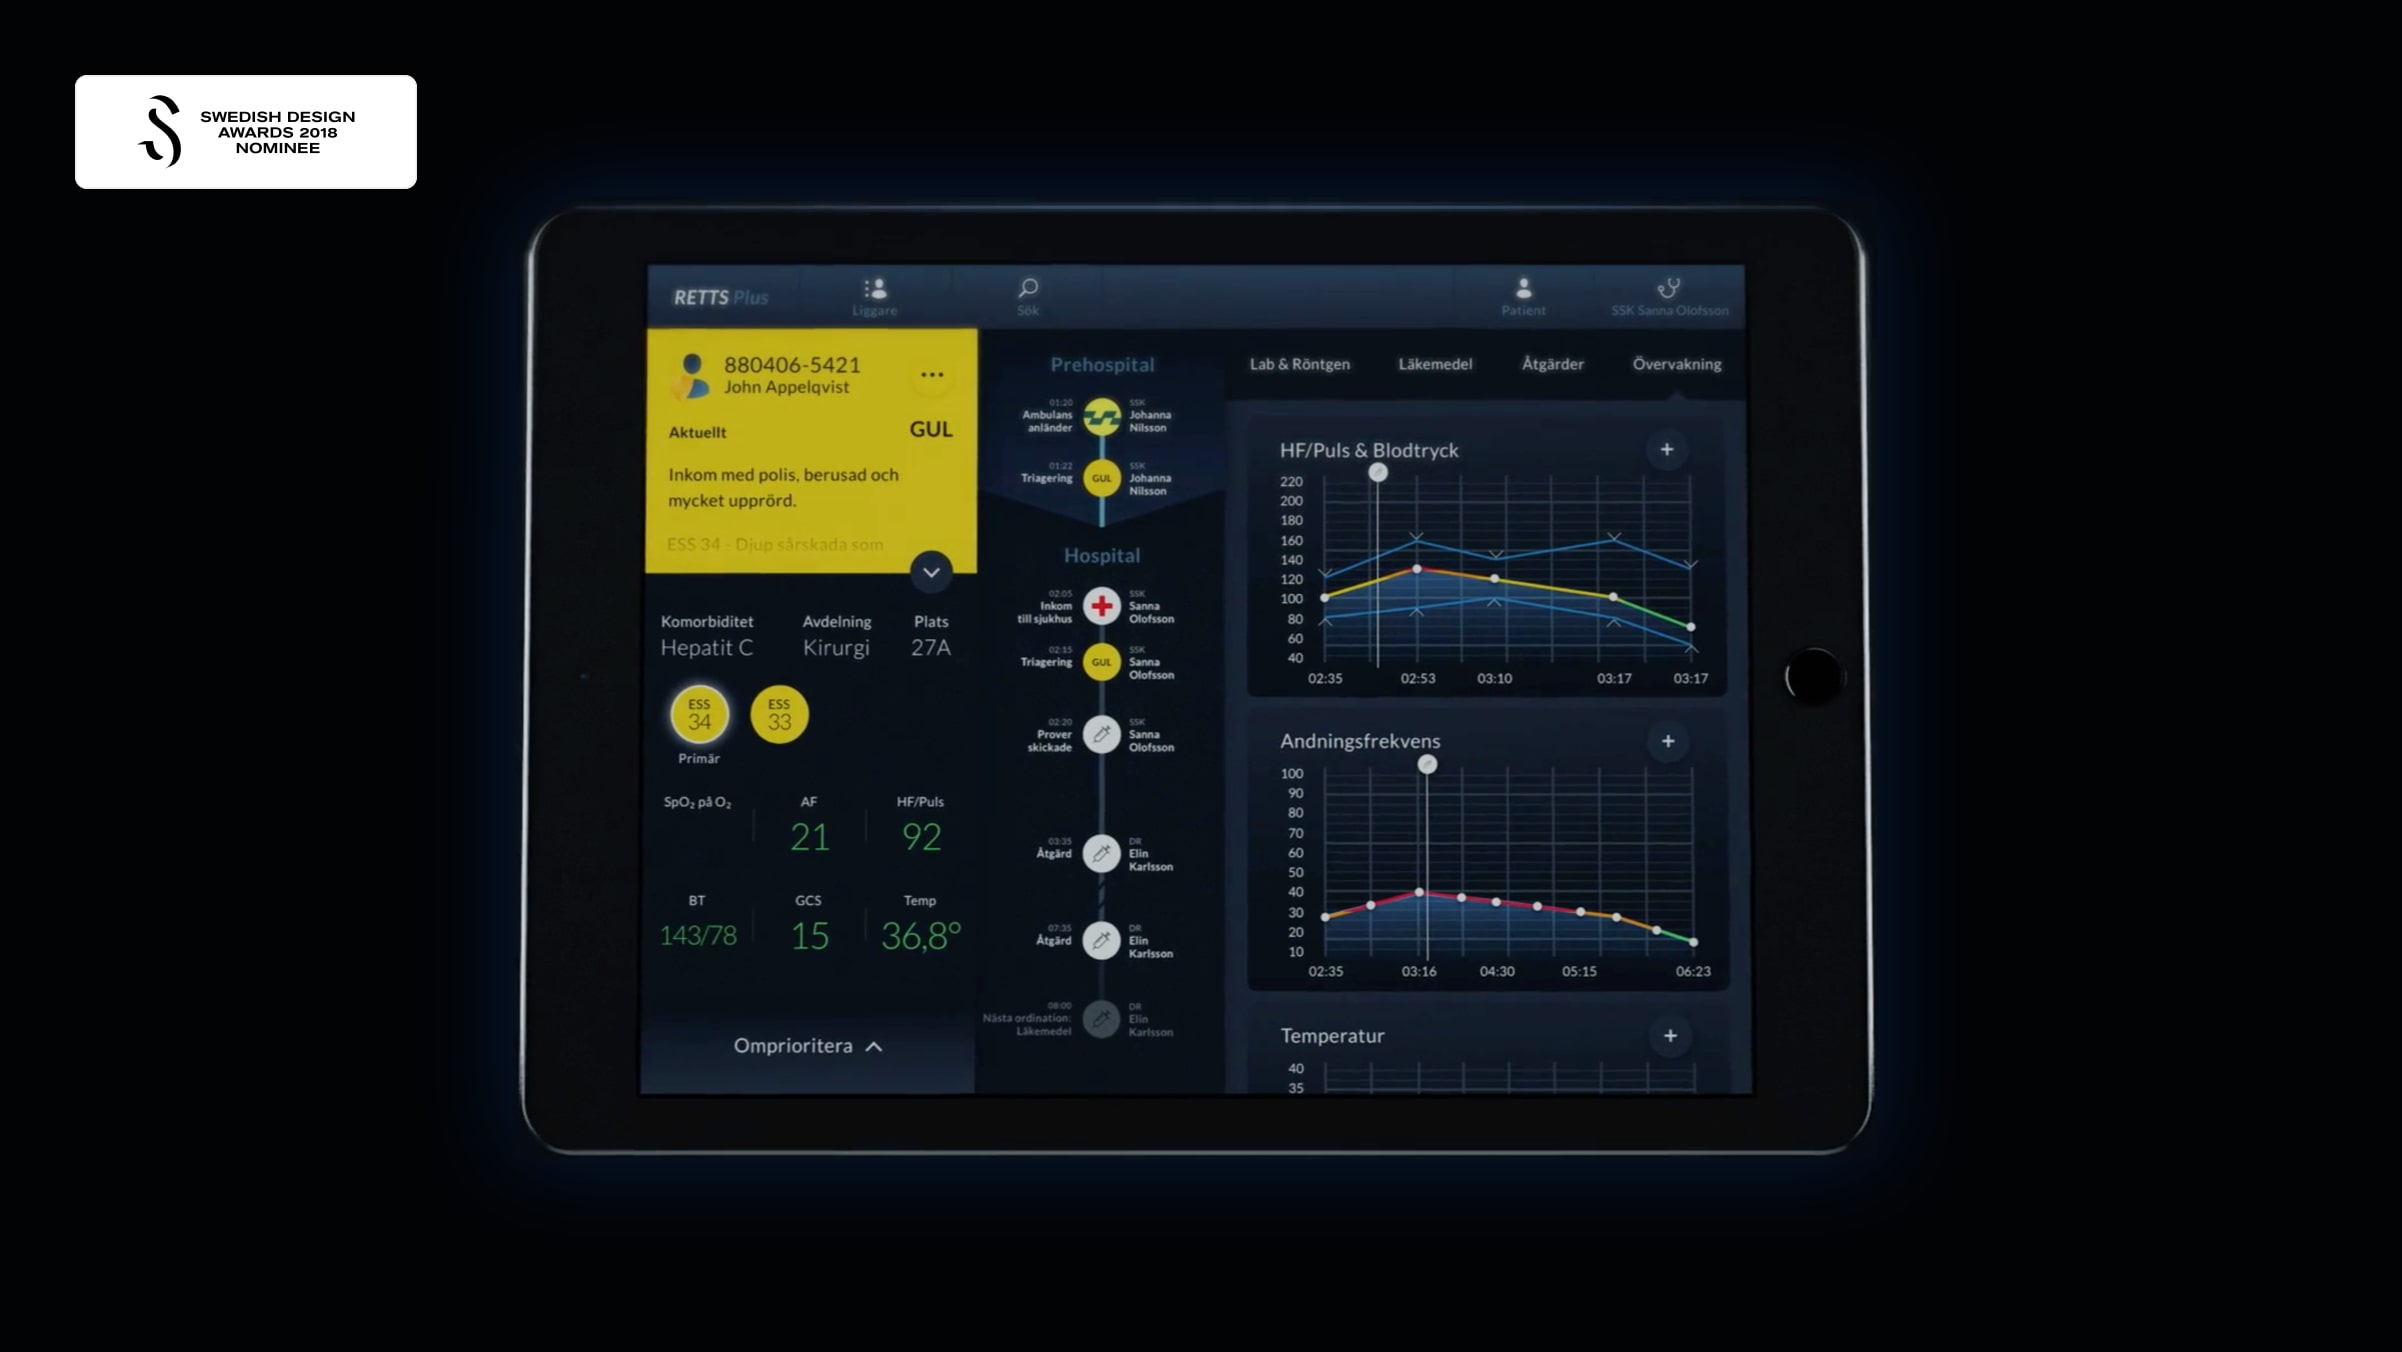
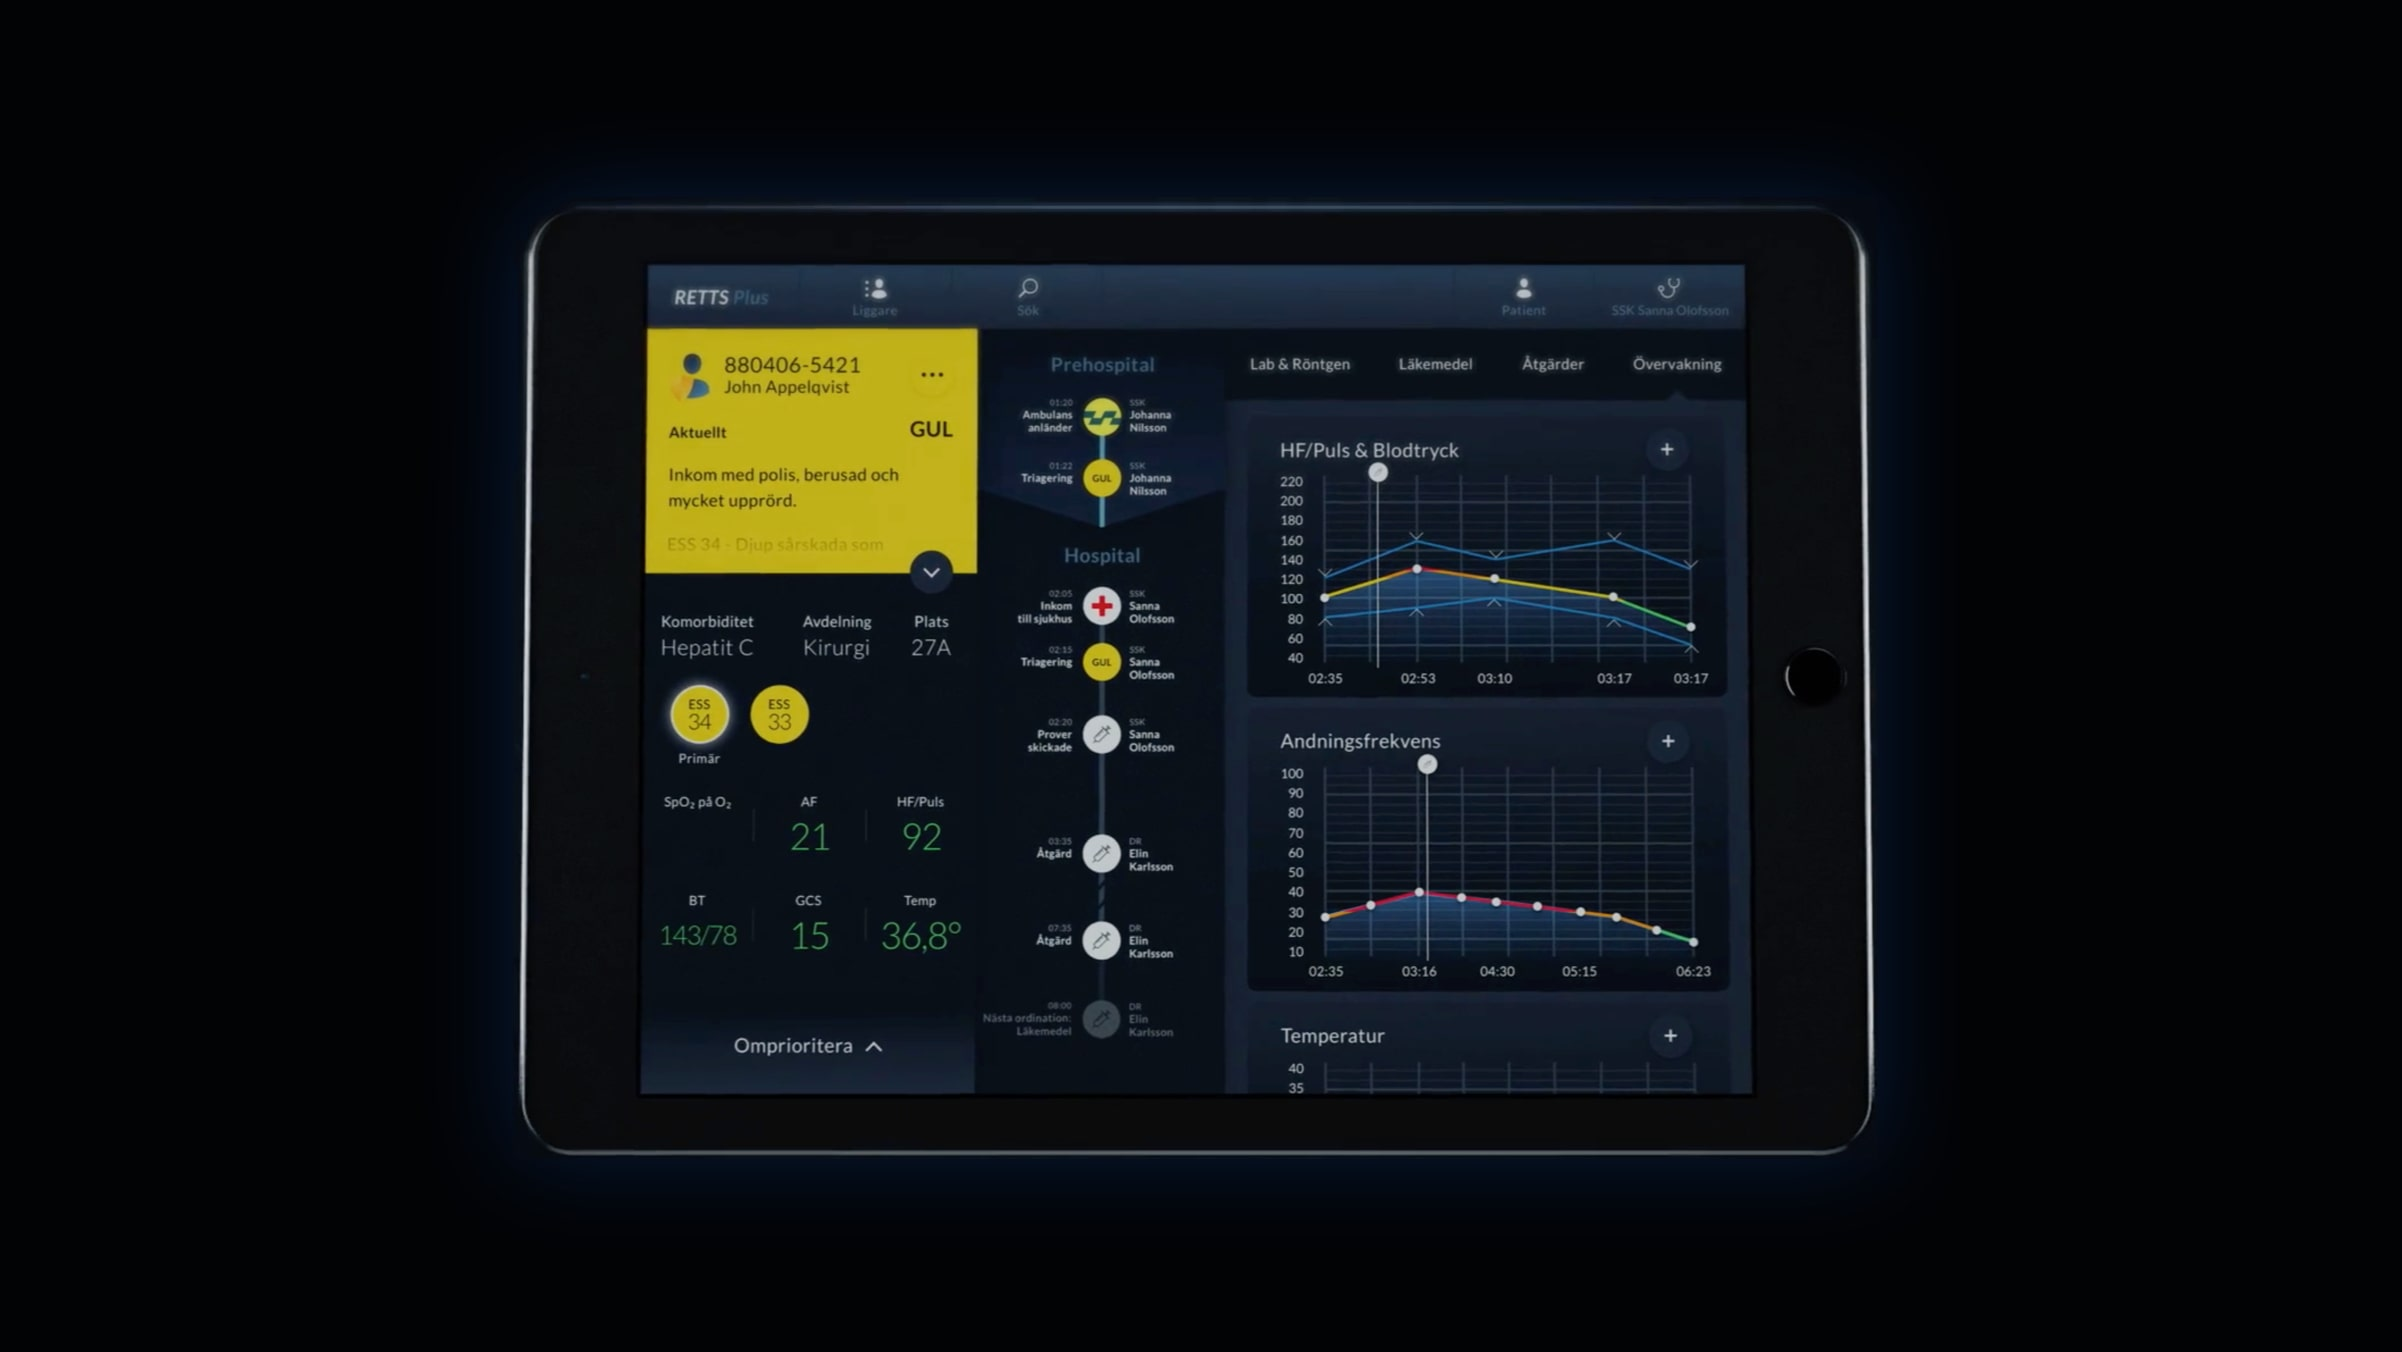
Various fixes on 'Retts Plus'

Changed region(s): [[0.0312, 0.0311, 0.1873, 0.1553]]

diff --git a/src/components/video-block/video-block.sass b/src/components/video-block/video-block.sass
@@ -1,5 +1,6 @@
 .video-block
   background: black
+  position: relative
 
   > .inner
     height: auto
@@ -7,3 +8,37 @@
     margin-bottom: -3px
     max-width: $max-width
     margin: auto
+
+  > .badges
+    position: absolute
+    top: 4rem
+    left: 4rem
+    font-family: -apple-system,BlinkMacSystemFont,Segoe UI,Helvetica,Arial,sans-serif
+    color: #999
+
+    > .badge
+      background: white
+      border: 0.1rem solid rgba(black, 0.15)
+      border-radius: 0.6rem
+      margin-bottom: 1.2rem
+      padding: 0.8rem 1rem
+      display: flex
+      align-items: center
+      box-shadow: 0 0.5rem 2rem -0.5rem rgba(black, 0.1)
+      min-width: 17rem
+
+      &.-center
+        justify-content: center
+
+      .title, .date
+        display: block
+        line-height: 1.4
+        margin-left: 1rem
+
+      .title
+        font-size: 1.1rem
+        font-weight: 700
+
+      .date
+        font-size: 1rem
+        font-weight: 400

diff --git a/src/inview.sass b/src/inview.sass
@@ -21,6 +21,7 @@ body.-case
   .text-block-multiple > .inner,
   .bookmark-block .content,
   .slide-in-block .inner,
+  .slide-in-block .slider,
   .devices-block > .inner
     opacity: 0
     transition: transform 0.5s ease-in-out, opacity 0.5s ease-in-out
@@ -40,6 +41,7 @@ body.-case
   .bookmark-block .content.-inview,
   .devices-block.-inview > .inner,
   .slide-in-block.-inview > .inner,
+  .slide-in-block.-inview > .slider,
   .grid-block.-more-projects.-inview .item
     transform: none
     opacity: 1

diff --git a/src/components/parallax-object-block/parallax-object-block.sass b/src/components/parallax-object-block/parallax-object-block.sass
@@ -21,7 +21,7 @@
 
   &.-diagonal
     height: 50vw
-    width: 100%
+    width: 90.9%
     max-height: 80rem
     transform: scale(1.2)
     margin: 7rem 0
@@ -36,6 +36,7 @@
     @media screen and (max-width: 1350px)
       transform: scale(1)
       margin: 0
+      width: 100%
 
       > .inner > .content
         margin-top: -50%

diff --git a/src/index.sass b/src/index.sass
@@ -22,3 +22,4 @@
 @import './components/parallax-object-block/parallax-object-block.sass'
 @import './components/slide-in-block/slide-in-block.sass'
 @import './components/video-block/video-block.sass'
+@import './components/text-grid-block/text-grid-block.sass'

diff --git a/src/inview.js b/src/inview.js
@@ -6,7 +6,8 @@ const selectors = [
   '.bookmark-block .content',
   '.devices-block',
   '.grid-block.-more-projects',
-  '.slide-in-block'
+  '.slide-in-block',
+  '.parallax-object-block'
 ].join(',')
 
 if (document.body.classList.contains('-case')) {

diff --git a/src/components/large-image/large-image.sass b/src/components/large-image/large-image.sass
@@ -25,7 +25,7 @@
 
     > .badge
       background: white
-      border: 0.1rem solid #e8e8e8
+      border: 0.1rem solid rgba(black, 0.15)
       border-radius: 0.6rem
       margin-bottom: 1.2rem
       padding: 0.8rem 1rem
